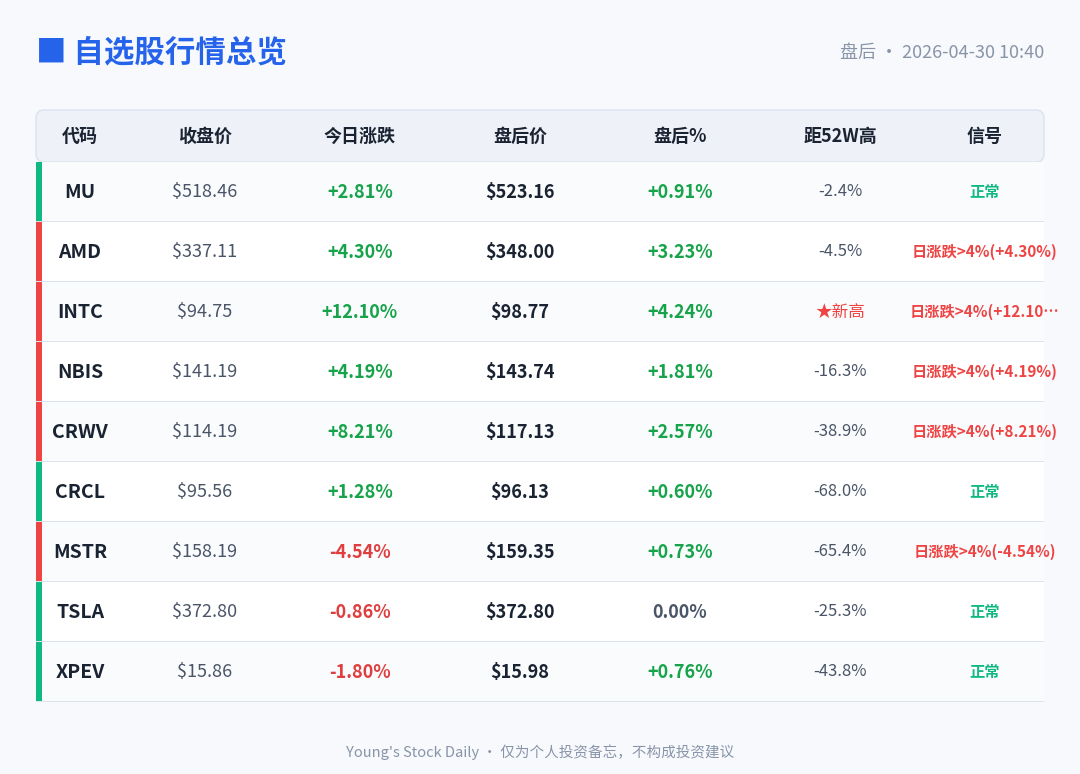
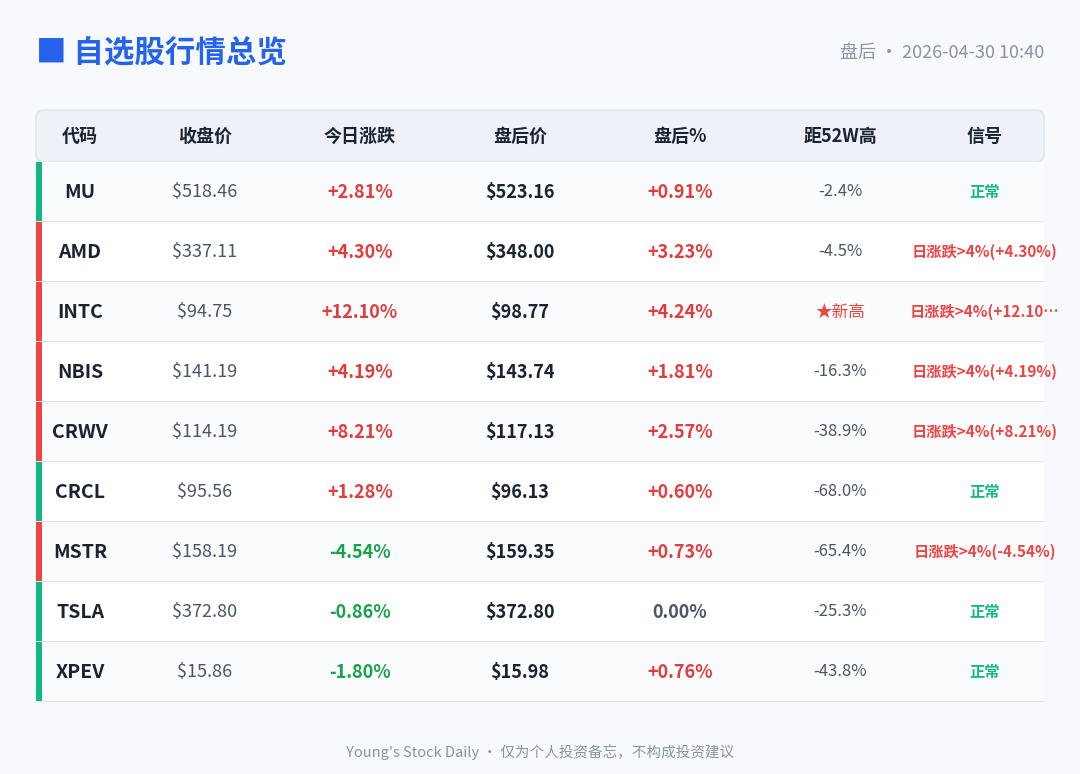
style: 全局改为红涨绿跌（中国投资者习惯）
涉及修改：
1. style.css: CSS 变量 --red(涨) --green(跌) + .up/.down/.pos/.neg 类颜色互换
2. app.js: K线图 SVG 蜡烛颜色 (isUp → #dc2626红, else → #16a34a绿)
3. render_overview.py: color_pct() 函数涨跌色互换
4. images/daily_20260430_1040.png: 重新渲染（红涨绿跌效果）

diff --git a/assets/style.css b/assets/style.css
@@ -12,8 +12,8 @@
   --text-sub: #4a5568;
   --text-muted: #8894a8;
 
-  --red: #e03e3e;     /* 涨 */
-  --green: #16a34a;   /* 跌 */
+  --red: #dc2626;     /* 涨 - 红色 */
+  --green: #16a34a;   /* 跌 - 绿色 */
   --orange: #f59e0b;  /* 警告 */
   --fire: #ef4444;    /* 极端 */
   --blue: #2563eb;    /* 强调 */
@@ -893,8 +893,8 @@ footer {
 .daily-block-body .signal-table thead { background: var(--bg-card-alt); }
 .daily-block-body .signal-table .row-fire td { background: #fef2f2; }
 .daily-block-body .signal-table .row-warn td { background: #fffbeb; }
-.daily-block-body .signal-table .neg { color: #dc2626; font-weight: 600; }
-.daily-block-body .signal-table .pos { color: #16a34a; font-weight: 600; }
+.daily-block-body .signal-table .neg { color: #16a34a; font-weight: 600; }
+.daily-block-body .signal-table .pos { color: #dc2626; font-weight: 600; }
 
 /* 股票列表项 */
 .daily-block-body .stock-item {
@@ -912,8 +912,8 @@ footer {
 .daily-block-body .action-list { padding-left: 22px; margin: 8px 0; }
 .daily-block-body .bullet-list li,
 .daily-block-body .action-list li { margin: 6px 0; color: var(--text-sub); }
-.daily-block-body .neg { color: #dc2626; }
-.daily-block-body .pos { color: #16a34a; }
+.daily-block-body .neg { color: #16a34a; }
+.daily-block-body .pos { color: #dc2626; }
 
 /* 4. 页头元信息块 */
 .daily-page-head {
@@ -1046,11 +1046,11 @@ footer {
   color: #1a2332;
 }
 .stock-table td.up, .stock-table .up {
-  color: #16a34a;
+  color: #dc2626;
   font-weight: 600;
 }
 .stock-table td.down, .stock-table .down {
-  color: #dc2626;
+  color: #16a34a;
   font-weight: 600;
 }
 .stock-table .data-note,

diff --git a/index.html b/index.html
@@ -6,7 +6,7 @@
   <meta name="theme-color" content="#f7f9fc">
   <meta name="description" content="Young's Stock Daily — 自选股实时行情分析 + Web3 日报">
   <title>Young's Stock Daily · 股票 &amp; Web3 投研日志</title>
-  <link rel="stylesheet" href="assets/style.css?v=202604301138">
+  <link rel="stylesheet" href="assets/style.css?v=202604301147">
   <link rel="icon" type="image/svg+xml" href="assets/favicon.svg?v=202604291201">
   <link rel="alternate icon" type="image/x-icon" href="favicon.ico?v=202604291201">
   <link rel="apple-touch-icon" sizes="180x180" href="assets/favicon-180.png?v=202604291201">
@@ -82,6 +82,6 @@
     数据来源：westock-data · 新浪财经 · investment-masters · web3-daily
   </footer>
 
-  <script src="assets/app.js?v=202604301138"></script>
+  <script src="assets/app.js?v=202604301147"></script>
 </body>
 </html>

diff --git a/assets/app.js b/assets/app.js
@@ -126,7 +126,7 @@
         var last = klines[klines.length - 1];
         var weekPct = ((last.close - first.open) / first.open * 100).toFixed(2);
         var isWeekUp = last.close >= first.open;
-        var themeColor = isWeekUp ? '#16a34a' : '#dc2626';
+        var themeColor = isWeekUp ? '#dc2626' : '#16a34a';
 
         // 计算全局高低
         var allHigh = Math.max.apply(null, klines.map(function (k) { return k.high; }));
@@ -144,7 +144,7 @@
           var isUp = k.close >= k.open;
           var bodyTop = isUp ? k.close : k.open;
           var bodyBot = isUp ? k.open : k.close;
-          var color = isUp ? '#16a34a' : '#dc2626';
+          var color = isUp ? '#dc2626' : '#16a34a';
 
           // Y 坐标映射（价格 → 像素，Y 轴反转）
           var yHigh = PAD_T + (1 - (k.high - allLow) / priceRange) * (H - PAD_T - PAD_B);

diff --git a/skills/stock-and-web3/scripts/render_overview.py b/skills/stock-and-web3/scripts/render_overview.py
@@ -90,7 +90,7 @@ def fmt_pct(v):
 def color_pct(v):
     if v is None:
         return C['muted']
-    return C['green'] if v > 0 else C['red'] if v < 0 else C['sub']
+    return C['red'] if v > 0 else C['green'] if v < 0 else C['sub']
 
 
 # ---------- 主渲染 ----------
